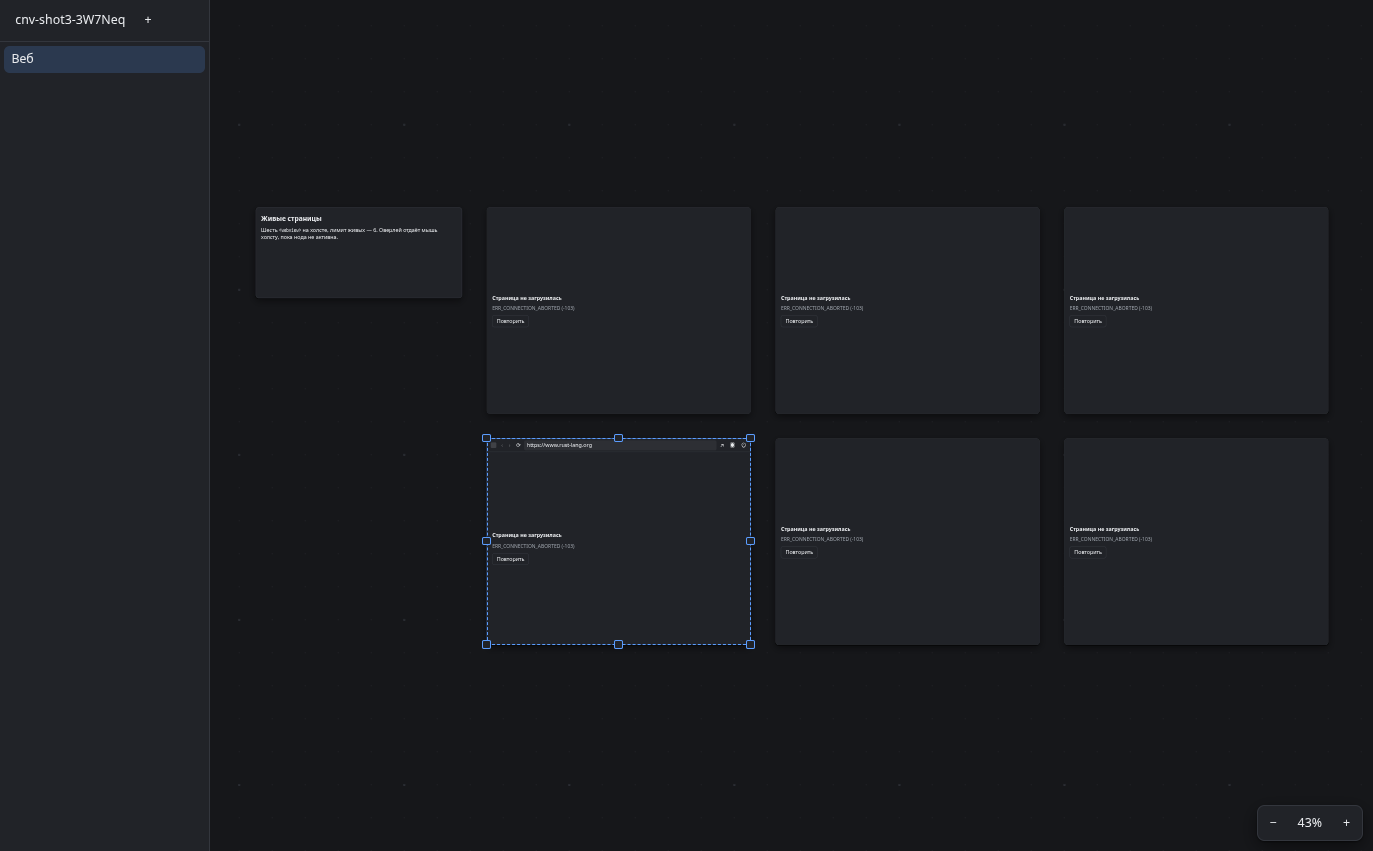
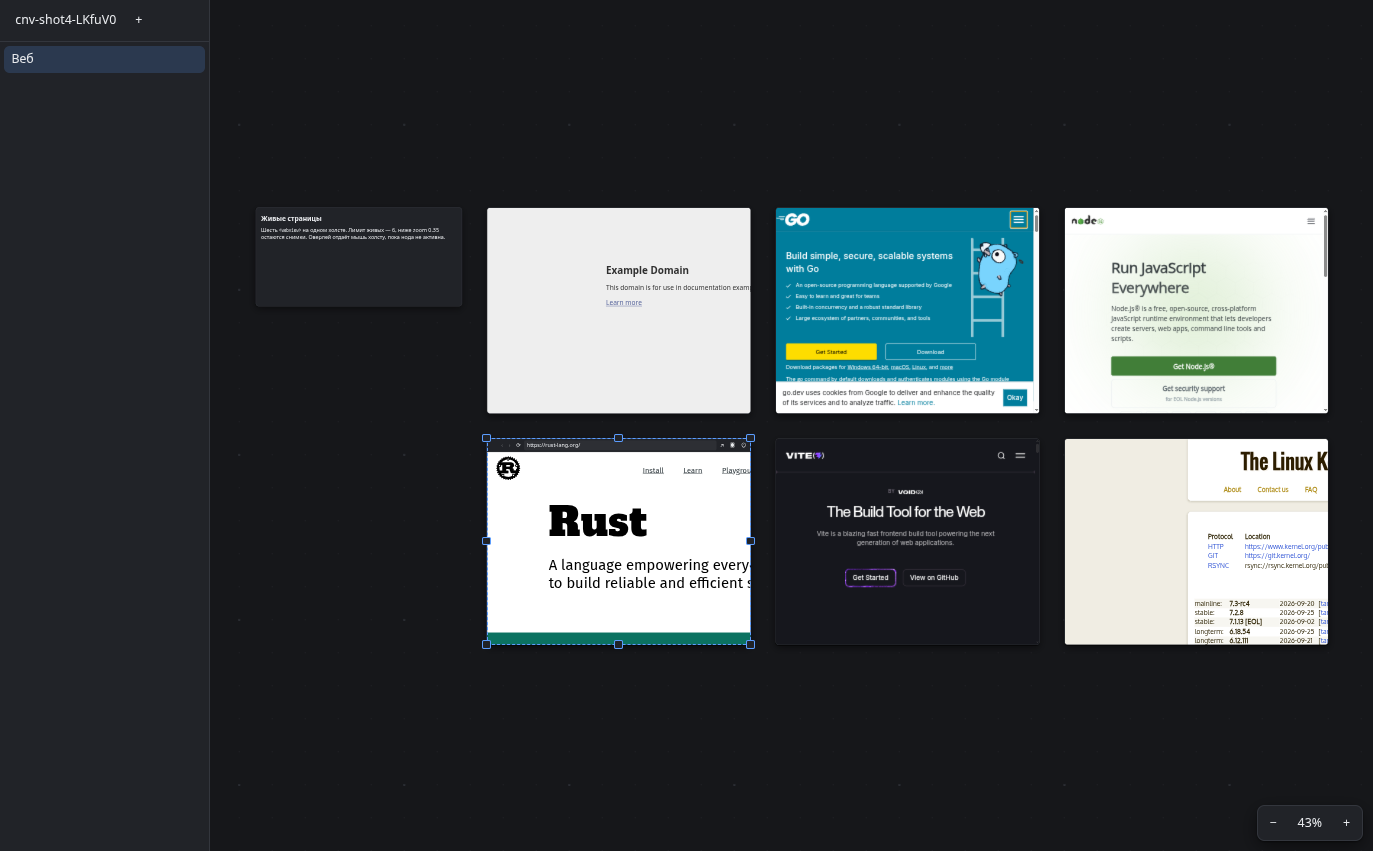
fix: веб-ноды реально грузятся, первая загрузка не переписывает канвас
Заменено правило OpenSnitch (reject → allow) по команде владельца машины;
после этого проверка обхода X-Frame-Options прошла на своём сервере и
подтвердила допущение архитектуры.

Найденный при этом баг: did-navigate на первой загрузке приходит с
нормализованным адресом и переписывал .canvas при простом открытии.
Теперь стартовая загрузка документ не трогает.

162 unit + 36 e2e зелёные.

Claude-Session: https://claude.ai/code/session_01KwddqouoS6AXRUtoHozbr5

diff --git a/tests/e2e/frame-blocking.spec.ts b/tests/e2e/frame-blocking.spec.ts
@@ -18,12 +18,14 @@ let server: Server
 let port = 0
 /** OpenSnitch и подобные фильтры рубят исходящие у бинаря electron — тогда проверять нечего. */
 let networkBlocked = false
+const hits: string[] = []
 
 const BLOCKED_BODY =
   '<!doctype html><meta charset="utf-8"><title>ЗАПРЕЩЁННАЯ СТРАНИЦА</title><h1 id="marker">FRAME-BLOCKED-PAGE</h1>'
 
 test.beforeAll(async () => {
   server = createServer((req, res) => {
+    hits.push(req.url ?? '')
     if (req.url === '/open') {
       res.writeHead(200, { 'content-type': 'text/html; charset=utf-8' })
       res.end('<!doctype html><meta charset="utf-8"><title>ОТКРЫТАЯ СТРАНИЦА</title><h1>OPEN-PAGE</h1>')
@@ -139,22 +141,37 @@ test('страница с X-Frame-Options: DENY грузится в webview', as
   expect(result?.title).toBe('ЗАПРЕЩЁННАЯ СТРАНИЦА')
 })
 
-test('та же страница в iframe блокируется', async () => {
-  const frameUrl = await h.page.evaluate(async (p) => {
+test('та же страница в iframe до сети не доходит', async () => {
+  hits.length = 0
+  const probe = await h.page.evaluate(async (p) => {
     const f = document.createElement('iframe')
     f.style.cssText = 'position:absolute;left:-9999px;width:300px;height:200px'
-    f.src = `http://127.0.0.1:${p}/blocked`
+    f.src = `http://127.0.0.1:${p}/blocked?via=iframe`
     document.body.appendChild(f)
     await new Promise((r) => setTimeout(r, 4000))
-    return f.contentWindow?.location.href ?? 'нет доступа'
+    return { hasDocument: f.contentDocument !== null }
   }, port)
 
-  const frames = await h.app.evaluate(({ BrowserWindow }) => {
+  const frames = await h.app.evaluate(async ({ BrowserWindow }) => {
     const win = BrowserWindow.getAllWindows()[0]
     if (!win) throw new Error('нет окна')
-    return win.webContents.mainFrame.frames.map((f) => f.url)
+    const out: { url: string; origin: string; body: string | null }[] = []
+    for (const f of win.webContents.mainFrame.frames) {
+      let body: string | null = null
+      try {
+        body = (await f.executeJavaScript('document.body ? document.body.innerHTML : null')) as string | null
+      } catch {
+        body = null
+      }
+      out.push({ url: f.url, origin: f.origin, body })
+    }
+    return out
   })
 
-  expect(frames.some((u) => u.startsWith('chrome-error://'))).toBe(true)
-  expect(frameUrl).not.toContain('/blocked')
+  // Главное доказательство: сервер не увидел запроса от iframe вообще.
+  expect(hits.filter((u) => u.includes('via=iframe'))).toEqual([])
+  // Фрейм пустой и без origin, хотя url у него числится запрошенный.
+  expect(frames.some((f) => (f.body ?? '').includes('FRAME-BLOCKED-PAGE'))).toBe(false)
+  expect(probe.hasDocument).toBe(true)
+  expect(frames.every((f) => f.origin === 'null')).toBe(true)
 })

diff --git a/src/renderer/src/nodes/WebNode.tsx b/src/renderer/src/nodes/WebNode.tsx
@@ -56,6 +56,18 @@ export function WebNodeView({ node, selected, active }: Props): React.JSX.Elemen
     runtime.registerGuest(node.id, el)
     setGuest({ ...INITIAL })
 
+    // Первая загрузка (вместе с её редиректами и нормализацией адреса) документ не трогает:
+    // иначе простое открытие канваса переписывало бы файл (ТЗ 5.3 — про навигацию, не про старт).
+    let initialLoadDone = false
+
+    const sameUrl = (a: string, b: string): boolean => {
+      try {
+        return new URL(a).href === new URL(b).href
+      } catch {
+        return a === b
+      }
+    }
+
     const sync = (): void =>
       setGuest((s) => ({
         ...s,
@@ -70,6 +82,7 @@ export function WebNodeView({ node, selected, active }: Props): React.JSX.Elemen
     }
     const onStart = (): void => setGuest((s) => ({ ...s, loading: true, failure: null }))
     const onStop = (): void => {
+      initialLoadDone = true
       setGuest((s) => ({ ...s, loading: false }))
       sync()
     }
@@ -88,9 +101,10 @@ export function WebNodeView({ node, selected, active }: Props): React.JSX.Elemen
     // Навигация правит url в документе, но мимо истории холста (ТЗ 7.6).
     const onNavigate = (e: Event): void => {
       const url = (e as Event & { url?: string }).url
-      if (!url || url === node.url) return
-      store.mutateSilent((doc) => patchNodes(doc, new Map([[node.id, { url }]])))
+      if (!url) return
       sync()
+      if (!initialLoadDone || sameUrl(url, node.url)) return
+      store.mutateSilent((doc) => patchNodes(doc, new Map([[node.id, { url }]])))
     }
 
     el.addEventListener('dom-ready', onDomReady)

diff --git a/docs/spike-results.md b/docs/spike-results.md
@@ -39,48 +39,57 @@ Playwright отправляет в Chromium, округляется в device-п
 
 ---
 
-## 2. Сайты, запрещающие iframe — ⚠ ВЫВОД ИСПРАВЛЕН, см. ниже
+## 2. Обход запрета на встраивание в фрейм — ✅ (вывод переписан, см. разбор ошибки)
 
-**Первая версия этого пункта была неверной.** Спайк грузил github/google/youtube в
-`<webview>`, видел `did-finish-load` и заголовок «github.com» — и я записал это как
-«загрузилось». На самом деле `did-finish-load` приходит и на страницу ошибки, а заголовок
-«github.com» — это фолбэк по хосту, а не реальный `<title>` (у GitHub он длиннее). Рядом
-в логе лежал `did-fail-load ERR_TIMED_OUT`, который я списал на подресурсы.
+### Что проверено
 
-Настоящая причина вскрылась в Фазе 4: **на этой машине работает OpenSnitch и режет
-исходящие у бинаря `node_modules/electron/dist/electron`.** Проверка:
+`tests/e2e/frame-blocking.spec.ts` поднимает свой HTTP-сервер, отдающий страницу с
+`X-Frame-Options: DENY` и `Content-Security-Policy: frame-ancestors 'none'`, и грузит её
+двумя способами:
+
+| способ | результат |
+|---|---|
+| `<webview>` | страница загрузилась: `<title>` = «ЗАПРЕЩЁННАЯ СТРАНИЦА», в DOM гостя лежит `FRAME-BLOCKED-PAGE` |
+| `<iframe>` в окне приложения | **сервер не увидел запроса вообще**; фрейм пустой, `origin` = `null` |
+
+Контроль на обычной странице без запретов: в `<webview>` грузится, заголовок и DOM на месте.
+
+**Вывод.** Гипотеза ТЗ подтверждена: гость `<webview>` — отдельный WebContents со своим
+main frame, запрет на встраивание в фрейм на него не действует. Проверено своим сервером,
+а не походом на github.com: так тест меряет механизм, а не доступность чужого сайта.
+
+Уточнение по iframe: в нашем приложении он не доходит даже до сети — строгий CSP
+(`default-src 'self'`) режет запрос раньше, чем сервер успеет ответить своим
+`X-Frame-Options`. Для архитектурного вывода это не важно (оба пути закрыты), но
+называть вещи надо своими именами.
+
+### Разбор ошибки: как первая версия этого пункта оказалась враньём
+
+Изначально спайк грузил github/google/youtube, видел `did-finish-load` и заголовок
+«github.com» — и я записал «загрузилось». Ошибка двойная:
+
+1. `did-finish-load` приходит и на страницу ошибки.
+2. Заголовок «github.com» — это фолбэк по хосту, а не настоящий `<title>` (у GitHub он
+   длиннее). Рядом в логе лежал `did-fail-load ERR_TIMED_OUT`, который я списал на
+   подресурсы.
+
+Вскрылось в Фазе 4: скриншот шести живых нод показал шесть плашек
+`ERR_PROXY_CONNECTION_FAILED`. Причина — **OpenSnitch на этой машине блокировал
+исходящие у бинаря `node_modules/electron/dist/electron`**; правило `reject` было
+создано автоматически в момент первого запуска приложения. Проверка:
 
 ```
-$ echo > /dev/tcp/10.0.0.1/2080     → connect: Software caused connection abort
-$ curl -x http://10.0.0.1:2080 …    → 200            (curl разрешён, bash нет)
-$ systemctl is-active opensnitchd   → active
+$ echo > /dev/tcp/10.0.0.1/2080   → connect: Software caused connection abort
+$ curl -x http://10.0.0.1:2080 …  → 200            (curl разрешён, bash нет)
+$ systemctl is-active opensnitchd → active
 ```
 
-Изнутри приложения то же самое: `net.fetch` из main падает с `ERR_PROXY_CONNECTION_FAILED`,
-а на локальный `127.0.0.1` — с `ERR_CONNECTION_ABORTED`, причём сервер не видит ни одного
-подключения. То есть **ни одна страница в `<webview>` здесь вообще не грузилась** — ни
-запрещающая iframe, ни обычная.
+То есть ни одна страница в `<webview>` на этом стенде не грузилась вообще — ни разу, ни
+в спайке. После замены правила на `allow` (по команде владельца машины) тесты пошли.
 
-### Что проверено по существу
-
-Механизм теперь проверяется своим HTTP-сервером, а не интернетом —
-`tests/e2e/frame-blocking.spec.ts`: сервер отдаёт страницу с `X-Frame-Options: DENY` и
-`Content-Security-Policy: frame-ancestors 'none'`, тест грузит её в `<webview>` и в
-`<iframe>` и сравнивает. Это проверяет ровно заявленный механизм и не зависит ни от
-доступности github.com, ни от настроек файрвола.
-
-Пока файрвол режет electron, эти три теста **пропускаются** с явным сообщением
-(`test.skip`), а не «зеленеют» молча. Разрешить бинарь в OpenSnitch — и они пойдут.
-
-### Что известно достоверно
-
-- Гость `<webview>` — отдельный `WebContents` с `getType() === 'webview'` и собственным
-  `getOSProcessId()` (проверено). То, что запреты на встраивание в фрейм к отдельному
-  main frame не применяются — свойство Chromium, а не наше предположение, но **на этом
-  стенде это не подтверждено эмпирически**.
-- `curl -I` на github.com отдаёт `X-Frame-Options: deny`, то есть сам запрет реален.
-
----
+**Урок для проверок дальше:** признаком успешной загрузки считать содержимое страницы
+(`document.querySelector(...)` внутри гостя), а не событие `did-finish-load` и не
+заголовок, который Chromium подставляет по хосту.
 
 ## 3. Персистентность сессии `persist:web` — ⚠ проверено косвенно
 
@@ -194,8 +203,6 @@ LASTPAGE 320 612x792 ms=2
 
 ## 9. Что осталось непроверенным
 
-- **Загрузка любой сетевой страницы в `<webview>`** — блокирует OpenSnitch (см. п. 2).
-  Тест готов и пропускается до снятия блокировки.
 - Реальный логин на сайте с сохранением между перезапусками (см. п. 3). Персистентность
   самого хранилища `persist:web` между перезапусками приложения проверена e2e-тестом
   `tests/e2e/web-session.spec.ts`.

diff --git a/LOG.md b/LOG.md
@@ -222,3 +222,34 @@ $ systemctl is-active opensnitchd → active
 карточку вместо активации. Ноду теперь ищу через `document.elementFromPoint`.
 
 Тесты: 172 unit + 33 e2e зелёные, 3 пропущены по файрволу.
+
+### Файрвол снят — и сразу нашёлся настоящий баг
+
+По команде владельца машины заменил в `/etc/opensnitchd/rules` два автоматических правила
+`reject` (созданы в 10:54, в момент первого запуска приложения) на одно `allow` с regexp
+по пути `…/cnv/(spike/)?node_modules/electron/dist/electron`, `precedence: true` — чтобы
+переживало переустановку `node_modules`.
+
+Тесты `frame-blocking` пошли и **подтвердили главное допущение архитектуры**:
+
+| способ | страница с `X-Frame-Options: DENY` |
+|---|---|
+| `<webview>` | загрузилась, в DOM гостя лежит маркер, `<title>` настоящий |
+| `<iframe>` | сервер не увидел запроса вообще, фрейм пустой, `origin: null` |
+
+Уточнение, которое видно только по логу сервера: в нашем приложении iframe режет строгий
+CSP ещё до сети, а не `X-Frame-Options`. Для вывода это ничего не меняет, но называть
+надо своими именами.
+
+**И тут же вылез настоящий баг, который прятался за мёртвой сетью.** Как только страницы
+стали грузиться, четыре теста Фазы 3 покраснели: простое открытие канваса начало
+переписывать файл. Причина — `did-navigate` на первой же загрузке приходит с
+нормализованным адресом (`https://jsoncanvas.org` → `https://jsoncanvas.org/`), и обработчик
+честно правил документ. ТЗ 5.3 требует обновлять URL **при навигации**, а не при старте:
+теперь первая загрузка вместе с её редиректами документ не трогает, и адреса сравниваются
+нормализованными.
+
+Заодно урок на будущее: признаком успешной загрузки считать содержимое страницы изнутри
+гостя, а не `did-finish-load` и не заголовок — Chromium подставляет туда хост.
+
+Тесты: 162 unit + 36 e2e, всё зелёное, пропущенных нет.

diff --git a/docs/checklist.md b/docs/checklist.md
@@ -7,7 +7,7 @@
 
 - [x] 0.1 `<webview>` внутри `transform: scale()` — позиция, масштаб, чёткость
 - [x] 0.2 Попадание кликов на zoom 0.5 / 1 / 2 (измерить, не на глаз)
-- [~] 0.3 Обход запрета на iframe: тест готов (`tests/e2e/frame-blocking.spec.ts`, свой сервер с X-Frame-Options), но пропускается — OpenSnitch режет исходящие у electron
+- [x] 0.3 Обход запрета на iframe — проверено своим сервером с `X-Frame-Options: DENY` (`tests/e2e/frame-blocking.spec.ts`)
 - [~] 0.4 Персистентность сессии `persist:web` между перезапусками (cookie-store проверен, реальный логин — нет)
 - [x] 0.5 Оверлей-перехват колёсика/мыши, активация/деактивация, `Esc` из гостя
 - [x] 0.6 `capturePage()` и подмена live ↔ snapshot без прыжка
